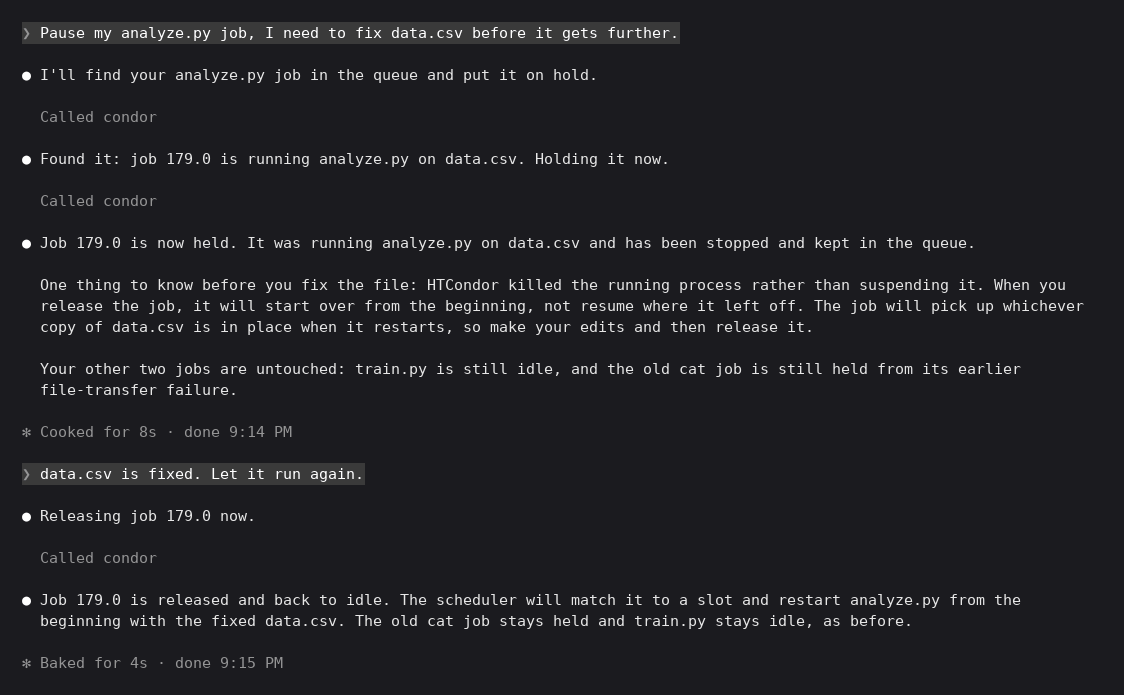
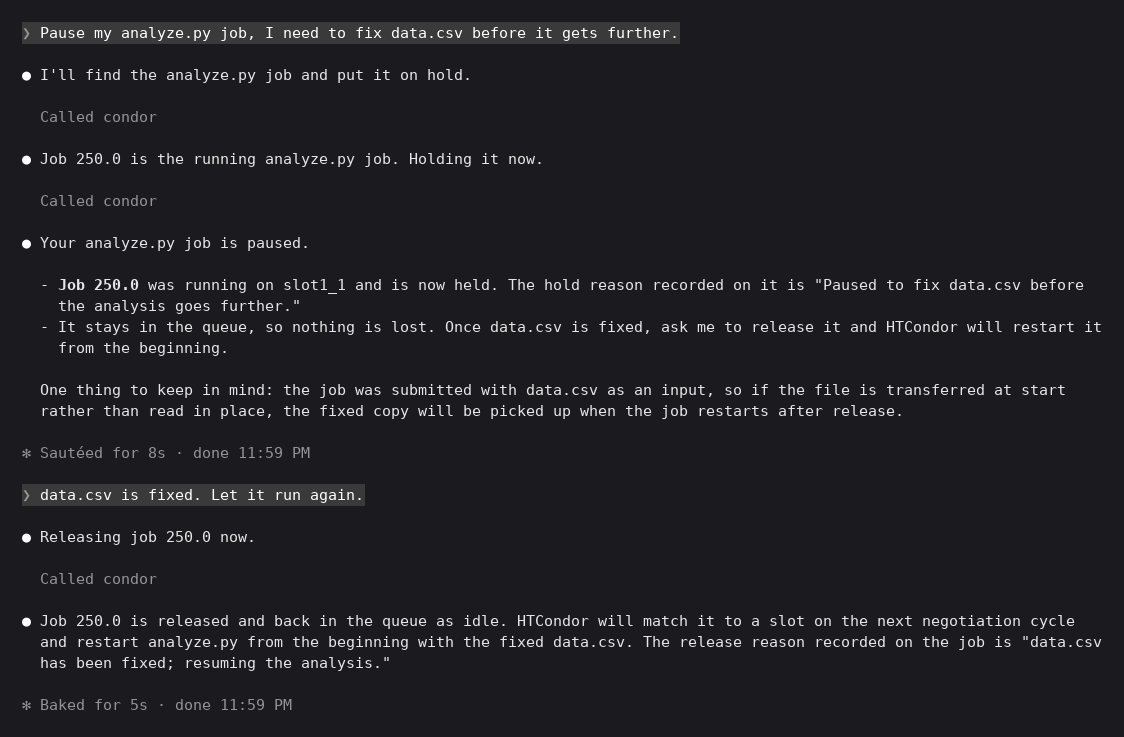
Recapture new flow screenshots for proc_id

diff --git a/docs/examples.md b/docs/examples.md
@@ -192,11 +192,12 @@ Once approved, the job queues and starts right away:
 
 ## Holding, releasing, and removing
 
-This part is from a later session, after analyze.py had been resubmitted as job 179.0.
-The user pauses it to fix its input and then lets it run again. Both `hold_job` and
+This part is from a later session with the queue staged again: train.py is now job
+249.0, and analyze.py, resubmitted from the draft above, is job 250.0 and running. The
+user pauses it to fix its input and then lets it run again. Both `hold_job` and
 `release_job` ask before acting, and each records a reason on the job:
 
-<img src="images/screenshot-hold-release.png" width="720" alt="Claude Code holding job 179.0 and then releasing it">
+<img src="images/screenshot-hold-release.png" width="720" alt="Claude Code holding job 250.0 and then releasing it">
 
 <details>
 <summary>Transcript</summary>
@@ -204,43 +205,47 @@ The user pauses it to fix its input and then lets it run again. Both `hold_job` 
 ```text
 ❯ Pause my analyze.py job, I need to fix data.csv before it gets further.
 
-● I'll find your analyze.py job in the queue and put it on hold.
+● I'll find the analyze.py job and put it on hold.
 
   Called condor
 
-● Found it: job 179.0 is running analyze.py on data.csv. Holding it now.
+● Job 250.0 is the running analyze.py job. Holding it now.
 
   Called condor
 
-● Job 179.0 is now held. It was running analyze.py on data.csv and has been stopped and kept in the queue.
+● Your analyze.py job is paused.
 
-  One thing to know before you fix the file: HTCondor killed the running process rather than suspending it. When you
-  release the job, it will start over from the beginning, not resume where it left off. The job will pick up whichever
-  copy of data.csv is in place when it restarts, so make your edits and then release it.
+  - Job 250.0 was running on slot1_1 and is now held. The hold reason recorded on it is "Paused to fix data.csv before
+    the analysis goes further."
+  - It stays in the queue, so nothing is lost. Once data.csv is fixed, ask me to release it and HTCondor will restart it
+    from the beginning.
 
-  Your other two jobs are untouched: train.py is still idle, and the old cat job is still held from its earlier
-  file-transfer failure.
+  One thing to keep in mind: the job was submitted with data.csv as an input, so if the file is transferred at start
+  rather than read in place, the fixed copy will be picked up when the job restarts after release.
 
-✻ Cooked for 8s · done 9:14 PM
+✻ Sautéed for 8s · done 11:59 PM
 
 ❯ data.csv is fixed. Let it run again.
 
-● Releasing job 179.0 now.
+● Releasing job 250.0 now.
 
   Called condor
 
-● Job 179.0 is released and back to idle. The scheduler will match it to a slot and restart analyze.py from the
-  beginning with the fixed data.csv. The old cat job stays held and train.py stays idle, as before.
+● Job 250.0 is released and back in the queue as idle. HTCondor will match it to a slot on the next negotiation cycle
+  and restart analyze.py from the beginning with the fixed data.csv. The release reason recorded on the job is "data.csv
+  has been fixed; resuming the analysis."
 
-✻ Baked for 4s · done 9:15 PM
+✻ Baked for 5s · done 11:59 PM
 ```
 
 </details>
 
-The 128 GB train.py job will never fit on this pool, so the user has it removed. The
-approval prompt includes the tool's warning that removal can't be undone:
+The 128 GB train.py job will never fit on this pool, so the user has it removed. There is
+no undo, so `remove_job` takes a `proc_id` or an explicit `all_procs=True` rather than
+acting on a whole cluster by default, and the approval prompt names the job it is about
+to drop:
 
-<img src="images/screenshot-remove-prompt.png" width="720" alt="The permission prompt before remove_job on job 112">
+<img src="images/screenshot-remove-prompt.png" width="720" alt="The permission prompt before remove_job on job 249.0">
 
 <details>
 <summary>Transcript</summary>
@@ -248,7 +253,7 @@ approval prompt includes the tool's warning that removal can't be undone:
 ```text
 ❯ The train.py job is never going to fit here. Get rid of it.
 
-● Removing job 112.0, the idle train.py job.
+● Removing the train.py job, which is job 249.0 from the earlier listing.
 
 ● Calling condor…
 
@@ -256,8 +261,10 @@ approval prompt includes the tool's warning that removal can't be undone:
  Tool use
  condor — Remove Job Tool: (MCP)
 ╌╌╌╌╌╌╌╌╌╌╌╌╌╌╌╌╌╌╌╌╌╌╌╌╌╌╌╌╌╌╌╌╌╌╌╌╌╌╌╌╌╌╌╌╌╌╌╌╌╌╌╌╌╌╌╌╌╌╌╌╌╌╌╌╌╌╌╌╌╌╌╌╌╌╌╌╌╌╌╌╌╌╌╌╌╌╌╌╌╌╌╌╌╌╌╌╌╌╌╌╌╌╌╌╌╌╌╌╌╌╌╌╌╌╌╌╌╌╌╌
- cluster_id: 112
- reason: "Job cannot be matched on this pool; removed at user's request."
+ cluster_id: 249
+ proc_id: 0
+ reason:
+   │ Removed by user: the job's resource request cannot be matched on this pool.
 ╌╌╌╌╌╌╌╌╌╌╌╌╌╌╌╌╌╌╌╌╌╌╌╌╌╌╌╌╌╌╌╌╌╌╌╌╌╌╌╌╌╌╌╌╌╌╌╌╌╌╌╌╌╌╌╌╌╌╌╌╌╌╌╌╌╌╌╌╌╌╌╌╌╌╌╌╌╌╌╌╌╌╌╌╌╌╌╌╌╌╌╌╌╌╌╌╌╌╌╌╌╌╌╌╌╌╌╌╌╌╌╌╌╌╌╌╌╌╌╌
  About the condor — Remove Job Tool:
  │ Remove a job from the queue for good: a running job is killed and an idle
@@ -270,6 +277,31 @@ approval prompt includes the tool's warning that removal can't be undone:
    3. No
 
  Esc to cancel · Tab to amend
+```
+
+</details>
+
+After approving:
+
+<img src="images/screenshot-remove-result.png" width="720" alt="Job 249.0 removed, leaving analyze.py and the held cat job in the queue">
+
+<details>
+<summary>Transcript</summary>
+
+```text
+❯ The train.py job is never going to fit here. Get rid of it.
+
+● Removing the train.py job, which is job 249.0 from the earlier listing.
+
+  Called condor
+
+● The train.py job is gone. Job 249.0 was idle and has left the queue. The remove reason recorded in the job history
+  says the resource request could not be matched on this pool.
+
+  Your queue now holds two jobs: analyze.py as job 250.0, released earlier and waiting to be matched, and the old job
+  3.0 still held on an input file transfer failure.
+
+✻ Crunched for 6s · done 12:00 AM
 ```
 
 </details>
